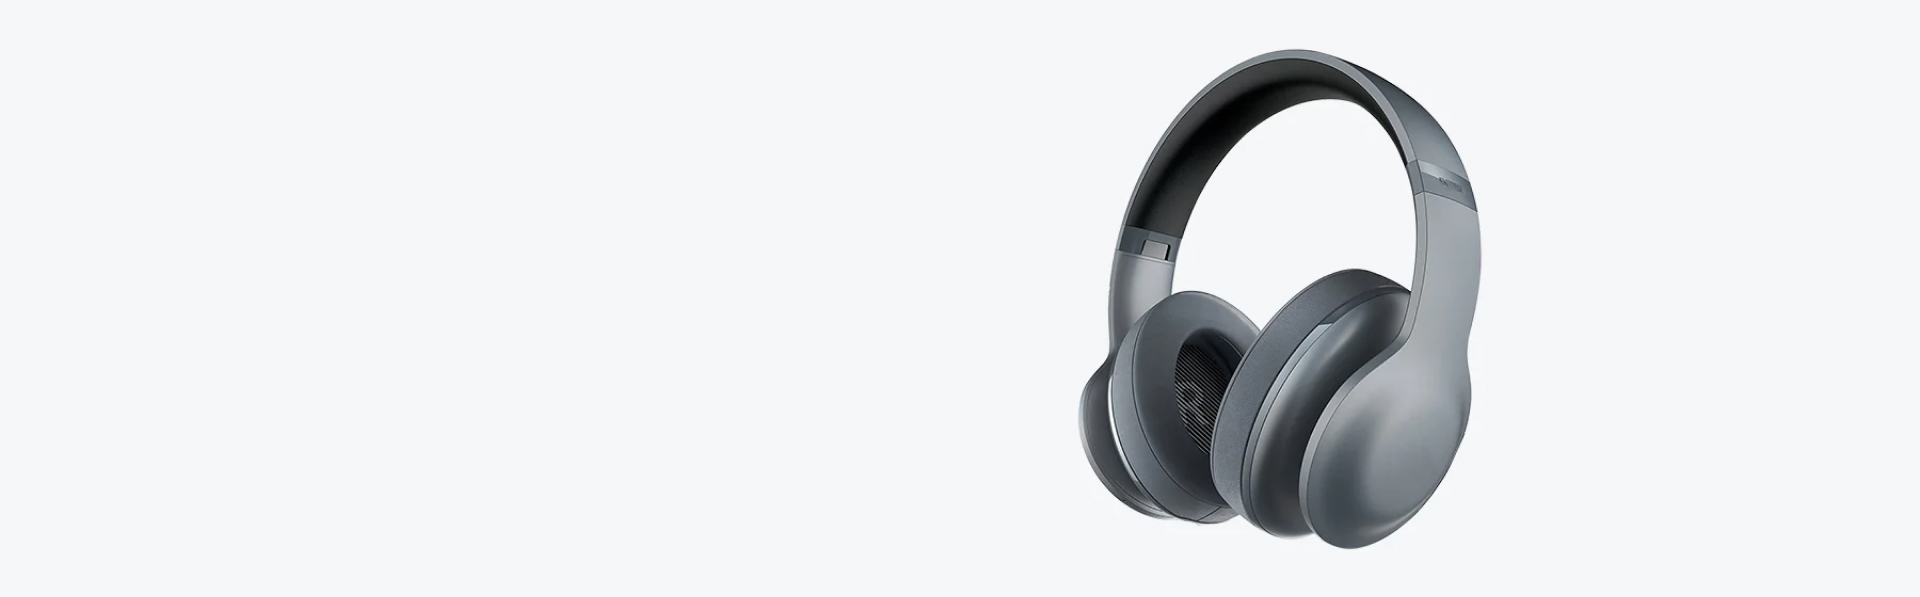
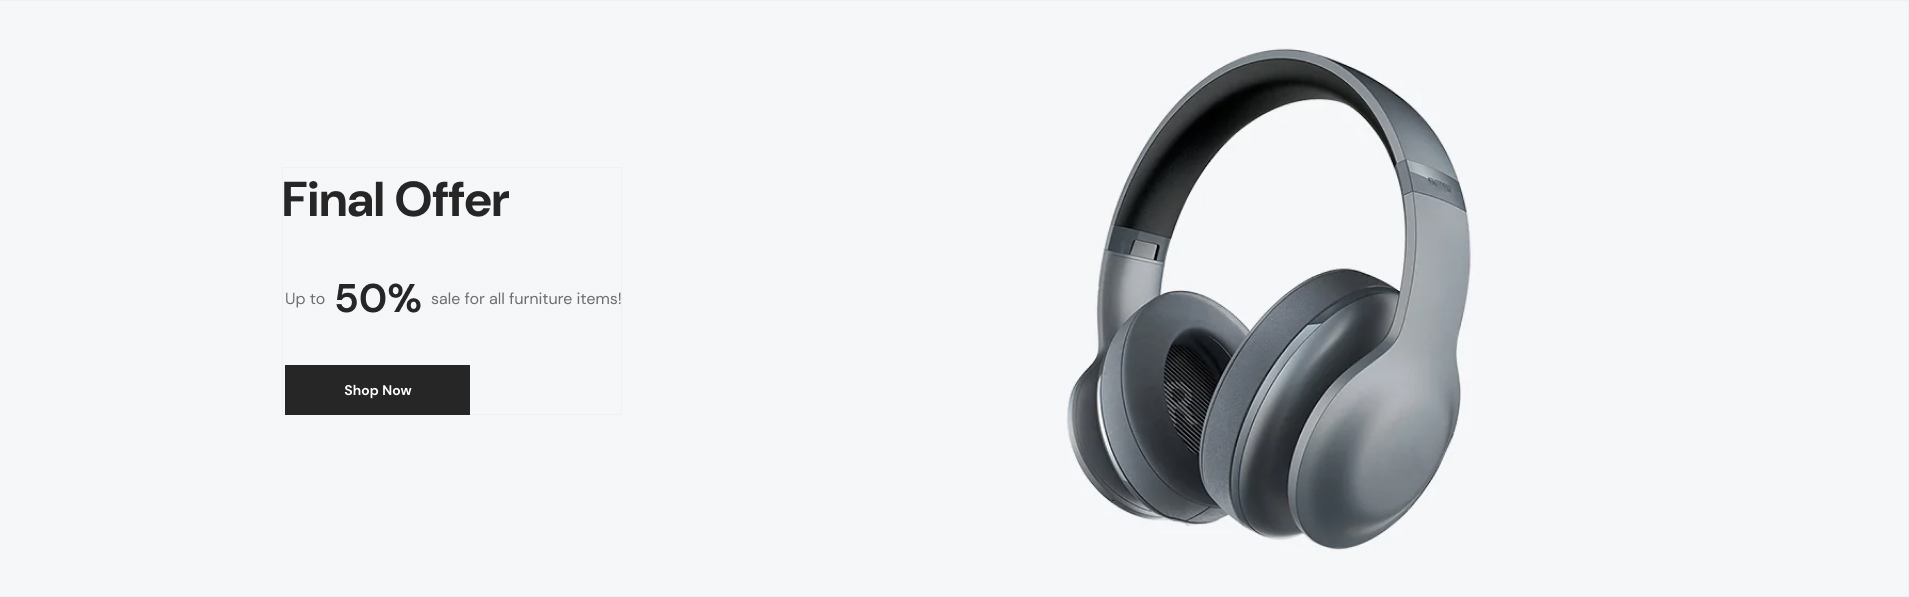
Information

diff --git a/src/components/layouts/Header.jsx b/src/components/layouts/Header.jsx
@@ -7,9 +7,9 @@ import { HiBars2 } from "react-icons/hi2";
 import { IoPersonSharp } from "react-icons/io5";
 import { BiSolidDownArrow } from "react-icons/bi";
 import { FaShoppingCart } from "react-icons/fa";
-import { FaTruck } from "react-icons/fa";import { FaArrowRotateLeft } from "react-icons/fa6";
 
-import Button from "../Button";
+
+
 const Header = () => {
   return (
     <>
@@ -73,31 +73,7 @@ const Header = () => {
       </div>
       {/* // Search and Cart Part End */}
       {/* Banner part strat */}
-      <div className="bg-[url('/src/assets/bannerBg.jpg')] py-[200px] bg-no-repeat bg-cover bg-center">
-        <Container>
-          <div className="ml-[90px]">
-            <h1 className="text-[49px] font-DM font-bold text-deepBlack">
-              Final Offer
-            </h1>
-            <h5 className="text-halkaGray font-DM text-base my-[60px]">
-              Up to <span className="text-[40px] font-bold text-deepBlack">50% </span>sale
-              for all furniture items!
-            </h5>
-            <Button className={"inline-block"} btnText={"Shop Now"} />
-          </div>
-        </Container>
-      </div>
-      <div className="py-8 border-b border-[#F0F0F0]">
-        <Container>
-          <Flex className={"justify-between"}>
-            <div>
-              <h2 className="text-base font-DM text-halkaGray"><span className="text-[30px] font-bold text-deepBlack mr-3">2</span>Two years warranty</h2>
-            </div>
-            <div className="flex"><FaTruck className="mr-3 text-[30px]"/><h2 className="text-base font-DM text-halkaGray">Free shipping</h2></div>
-            <div className="flex"><FaArrowRotateLeft className="mr-3 text-[30px]"/><h2 className="text-base font-DM text-halkaGray">Return policy in 30 days</h2></div>
-          </Flex>
-        </Container>
-      </div>
+      
       {/* Banner part End */}
     </>
   );

diff --git a/src/components/layouts/Information.jsx b/src/components/layouts/Information.jsx
@@ -1,0 +1,36 @@
+import { PiNumberTwoBold } from "react-icons/pi";
+import { FaTruck } from "react-icons/fa";
+import { FaArrowRotateLeft } from "react-icons/fa6";
+import Container from "../Container";
+import Flex from "../Flex";
+
+const Information = () => {
+  return (
+    <div className="py-8 border-b border-[#F0F0F0]">
+        <Container>
+          <Flex className={"justify-between"}>
+            <div className="flex items-center">
+              <PiNumberTwoBold className="mr-3 text-[30px]" />
+              <h2 className="text-base font-DM text-halkaGray">
+                Two years warranty
+              </h2>
+            </div>
+            <div className="flex items-center">
+              <FaTruck className="mr-3 text-[30px]" />
+              <h2 className="text-base font-DM text-halkaGray">
+                Free shipping
+              </h2>
+            </div>
+            <div className="flex items-center">
+              <FaArrowRotateLeft className="mr-3 text-[30px]" />
+              <h2 className="text-base font-DM text-halkaGray">
+                Return policy in 30 days
+              </h2>
+            </div>
+          </Flex>
+        </Container>
+      </div>
+  )
+}
+
+export default Information

diff --git a/src/components/pages/Home.jsx b/src/components/pages/Home.jsx
@@ -1,9 +1,14 @@
 
+import Banner from "../layouts/Banner";
+import Information from "../layouts/Information";
 
 const Home = () => {
   return (
-    <div>Home</div>
-  )
-}
+    <>
+    <Banner/>
+    <Information/>
+    </>
+  );
+};
 
-export default Home
+export default Home;

diff --git a/src/components/layouts/Banner.jsx b/src/components/layouts/Banner.jsx
@@ -1,0 +1,11 @@
+
+import { Link } from "react-router-dom";
+const Banner = () => {
+  return (
+   <Link to={"/shop"}>
+      <div className="bg-[url('/src/assets/bannerBg.jpg')] py-[300px] bg-no-repeat bg-cover bg-center"></div>
+    </Link>
+  )
+}
+
+export default Banner
